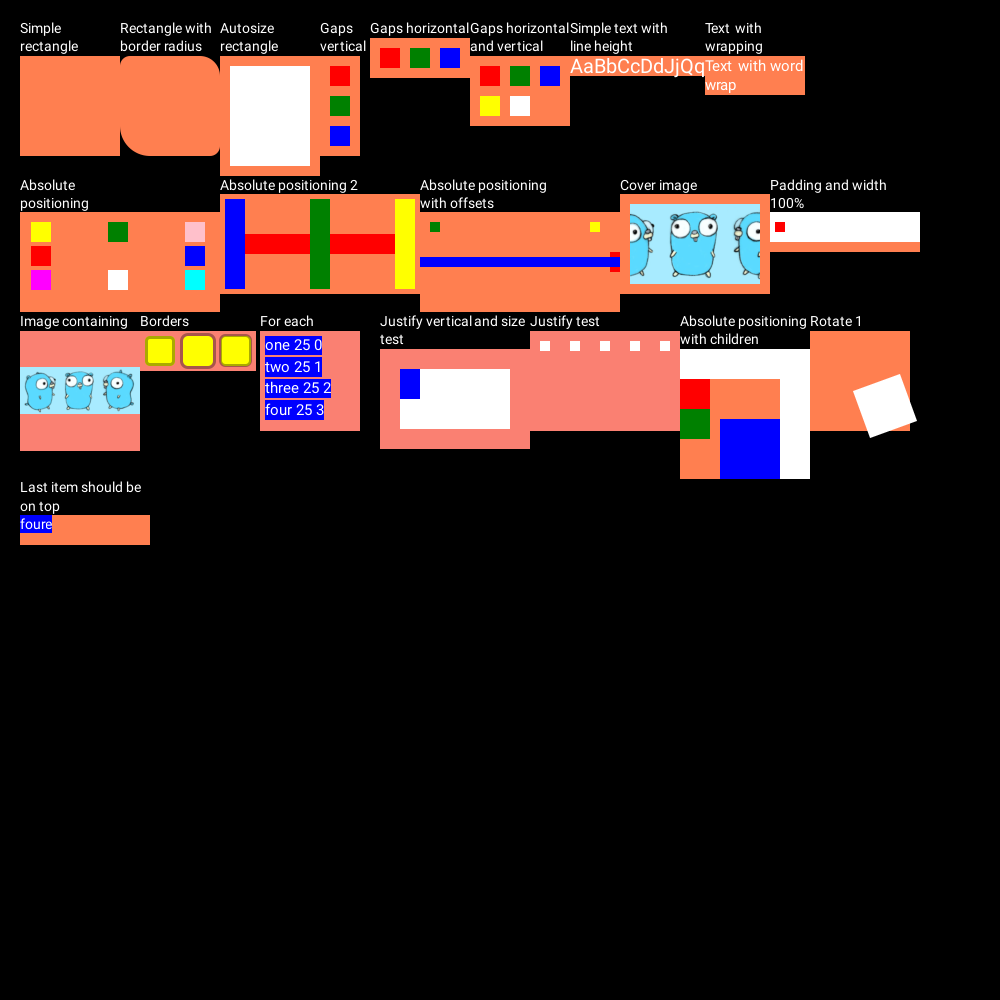
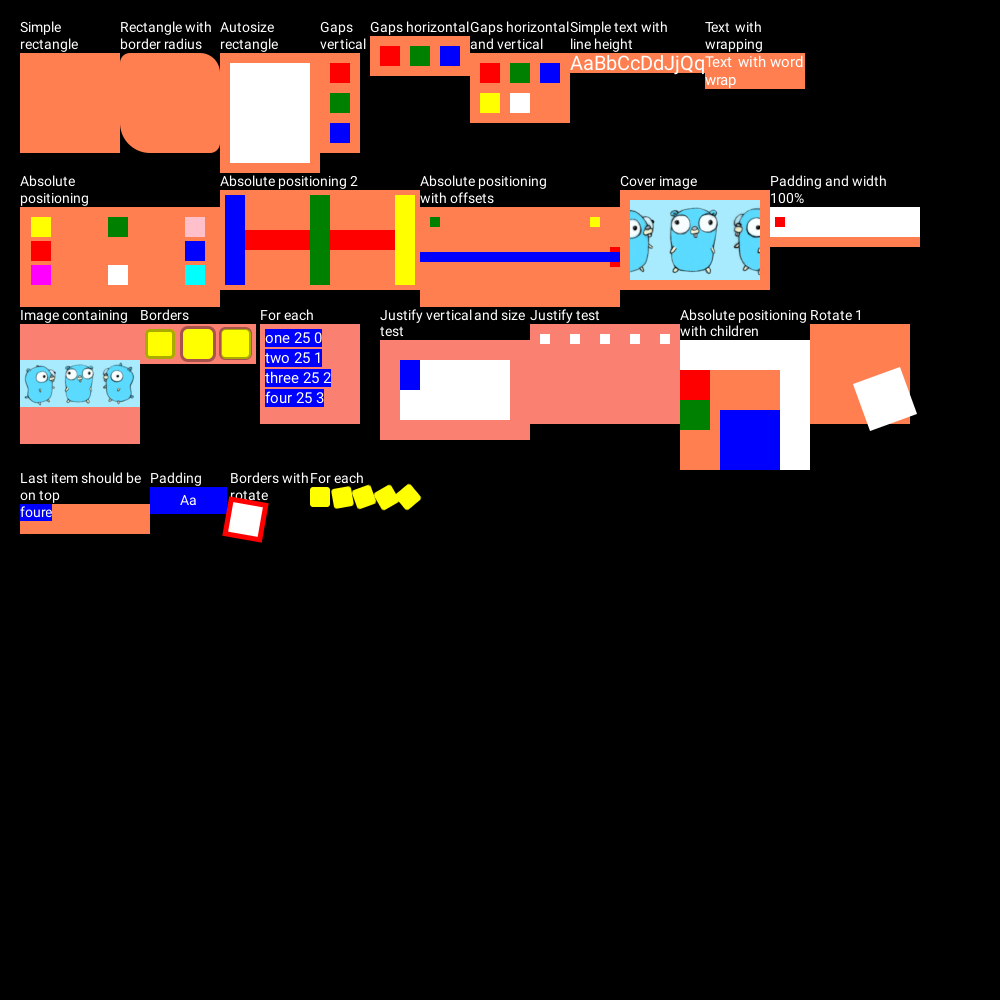
fix positionings and forEach

diff --git a/render/render.go b/render/render.go
@@ -31,7 +31,7 @@ var stacksPool = sync.Pool{
 	},
 }
 
-func Do(nodes layout.Nodes, cache *Cache) *image.RGBA {
+func Do(nodes layout.Nodes, cache *Cache) (*image.RGBA, error) {
 	stack := stacksPool.Get().(utils.Stack[drawState])
 
 	defer func() {
@@ -49,15 +49,25 @@ func Do(nodes layout.Nodes, cache *Cache) *image.RGBA {
 
 		// Create new destination image in case of root node and nodes that rotating
 		if state.dst == nil || math.Abs(n.Props.Rotation) > math.SmallestNonzeroFloat64 {
-			state.dst = utils.NewRGBAImageFromPool(int(math.Ceil(n.Size.W)), int(math.Ceil(n.Size.H)))
-			drawNode(cache, state.dst, n, 0, 0) // new destination, starting from origin point
+			// new destination and reset starting from origin point
+			// but with respect with borders, that can be outside of element
+
+			borderOffset := n.Props.Border.GetOutsetOffset()
+			state.dst = utils.NewRGBAImageFromPool(int(math.Ceil(n.Size.W+borderOffset*2)), int(math.Ceil(n.Size.H+borderOffset*2)))
+			err := drawNode(cache, state.dst, n, borderOffset, borderOffset)
+			if err != nil {
+				return stack[0].dst, err
+			}
 			state.pos = utils.Pos{
 				Left: n.Props.Padding.Left(),
 				Top:  n.Props.Padding.Top(),
 			}
 		} else {
 			left, top := getLocalLeftTop(state.node, n)
-			drawNode(cache, state.dst, n, state.pos.Left+left, state.pos.Top+top)
+			err := drawNode(cache, state.dst, n, state.pos.Left+left, state.pos.Top+top)
+			if err != nil {
+				return stack[0].dst, err
+			}
 
 			// Next position is world + current + current's padding
 			state.pos = utils.Pos{
@@ -73,7 +83,7 @@ func Do(nodes layout.Nodes, cache *Cache) *image.RGBA {
 
 	popupStack(&stack, 1)
 
-	return stack[0].dst
+	return stack[0].dst, nil
 }
 
 func popupStack(stack *utils.Stack[drawState], level int) {
@@ -89,8 +99,8 @@ func popupStack(stack *utils.Stack[drawState], level int) {
 				rotatedBounds := rotated.Bounds()
 
 				// rotated image has different sizes, so we have to center it
-				dx := rotatedBounds.Dx() - state.dst.Bounds().Dx()
-				dy := rotatedBounds.Dy() - state.dst.Bounds().Dy()
+				dx := rotatedBounds.Dx() - state.dst.Bounds().Dx() + int(state.node.Props.Border.GetOutsetOffset()*2)
+				dy := rotatedBounds.Dy() - state.dst.Bounds().Dy() + int(state.node.Props.Border.GetOutsetOffset()*2)
 
 				left, top := getLocalLeftTop(upperState.node, state.node)
 				bounds := image.Rect(

diff --git a/layout/layout.go b/layout/layout.go
@@ -234,7 +234,7 @@ func doLayoutNode(pn parsing.Node, nodes *Nodes, context layoutPhaseContext, val
 				rowWidth, _ := nodes.RowTotalWidth(childrenNodesLevel, from, rowIndex, textWhitespaceWidth, props.InnerGap)
 				props.Size.W = math.Max(props.Size.W, rowWidth)
 			})
-			props.Size.W = math.Max(0, props.Size.W+props.Padding.Right()+props.Padding.Bottom())
+			props.Size.W = math.Max(0, props.Size.W+props.Padding.Left()+props.Padding.Right())
 		}
 
 		if props.Size.H == -1 {

diff --git a/utils/reflection.go b/utils/reflection.go
@@ -40,12 +40,13 @@ func RunForEach(parentValue interface{}, arrayFieldName string, cb func(value an
 	}
 
 	if num, err := strconv.Atoi(arrayFieldName); err == nil {
-		for i := 0; i < num; i++ {
+		for i := num - 1; i >= 0; i-- {
 			err = cb(i, parentValue)
 			if err != nil {
 				return err
 			}
 		}
+		return nil
 	}
 
 	val := reflect.ValueOf(parentValue)

diff --git a/utils/utils.go b/utils/utils.go
@@ -94,6 +94,17 @@ type Border struct {
 	Color color.RGBA
 }
 
+func (b *Border) GetOutsetOffset() float64 {
+	switch b.Type {
+	case BorderTypeOutset:
+		return b.Width
+	case BorderTypeCenter:
+		return b.Width / 2
+	default:
+		return 0
+	}
+}
+
 func GetSha256(str string) string {
 	hash := sha256.Sum256([]byte(str))
 	return hex.EncodeToString(hash[:])

diff --git a/layout/text.go b/layout/text.go
@@ -17,7 +17,7 @@ func spitTextToNodes(nodes *Nodes, text string, context layoutPhaseContext) floa
 
 	var height float64
 	if context.props.LineHeight == -1 {
-		height = float64(context.props.FontDescription.Size) * 1.3
+		height = float64(context.props.FontDescription.Size) * 1.2
 	} else {
 		height = context.props.LineHeight
 	}

diff --git a/decorender.go b/decorender.go
@@ -86,7 +86,11 @@ func (r *Renderer) Render(userData any, format EncodeFormat, w io.Writer, opts *
 		return NothingToRenderErr
 	}
 
-	dst := render.Do(nodes, r.renderCache)
+	dst, err := render.Do(nodes, r.renderCache)
+	if err != nil {
+		return err
+	}
+
 	defer func() {
 		utils.ReleaseImage(dst)
 	}()

diff --git a/decorender_test.go b/decorender_test.go
@@ -8,6 +8,7 @@ func TestFull(t *testing.T) {
 	d, err := NewRenderer("./test.yaml")
 	if err != nil {
 		t.Errorf("unexpected error while yaml parse: %v", err)
+		return
 	}
 
 	data := struct {
